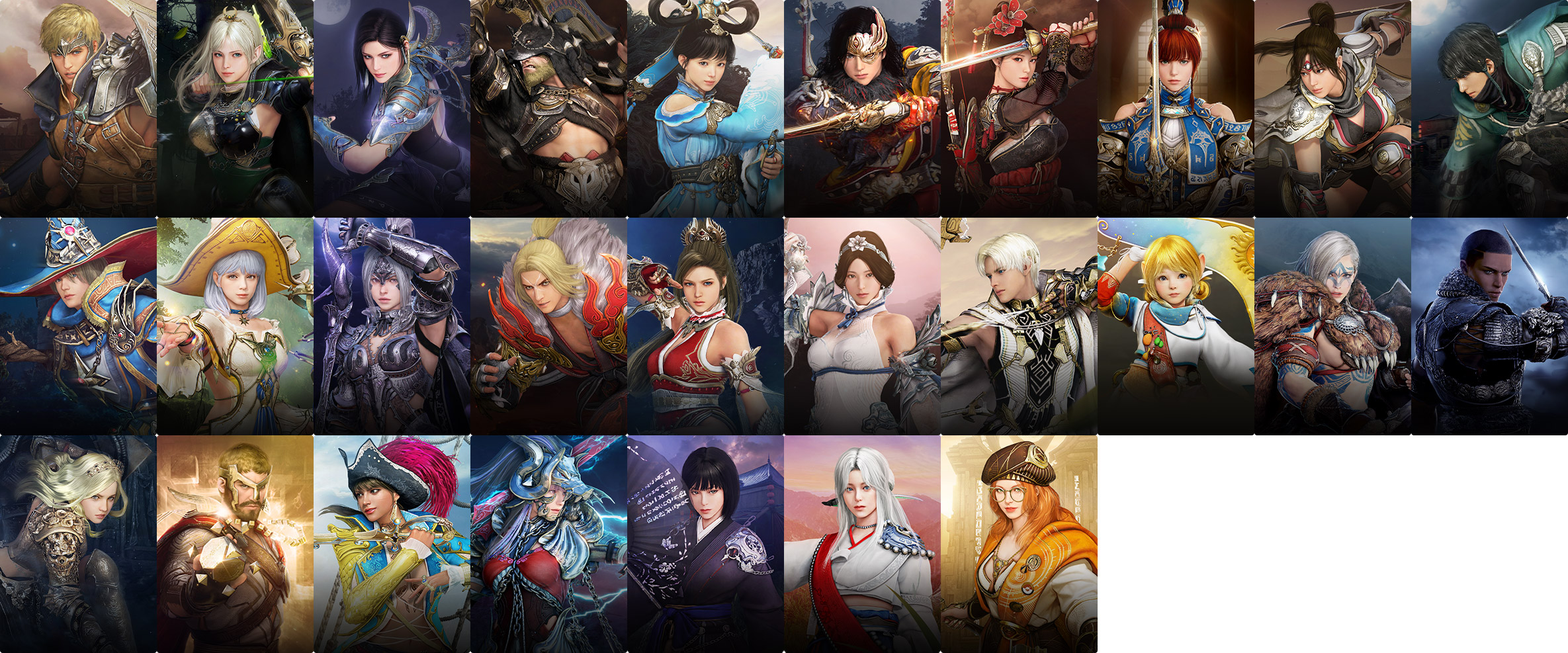
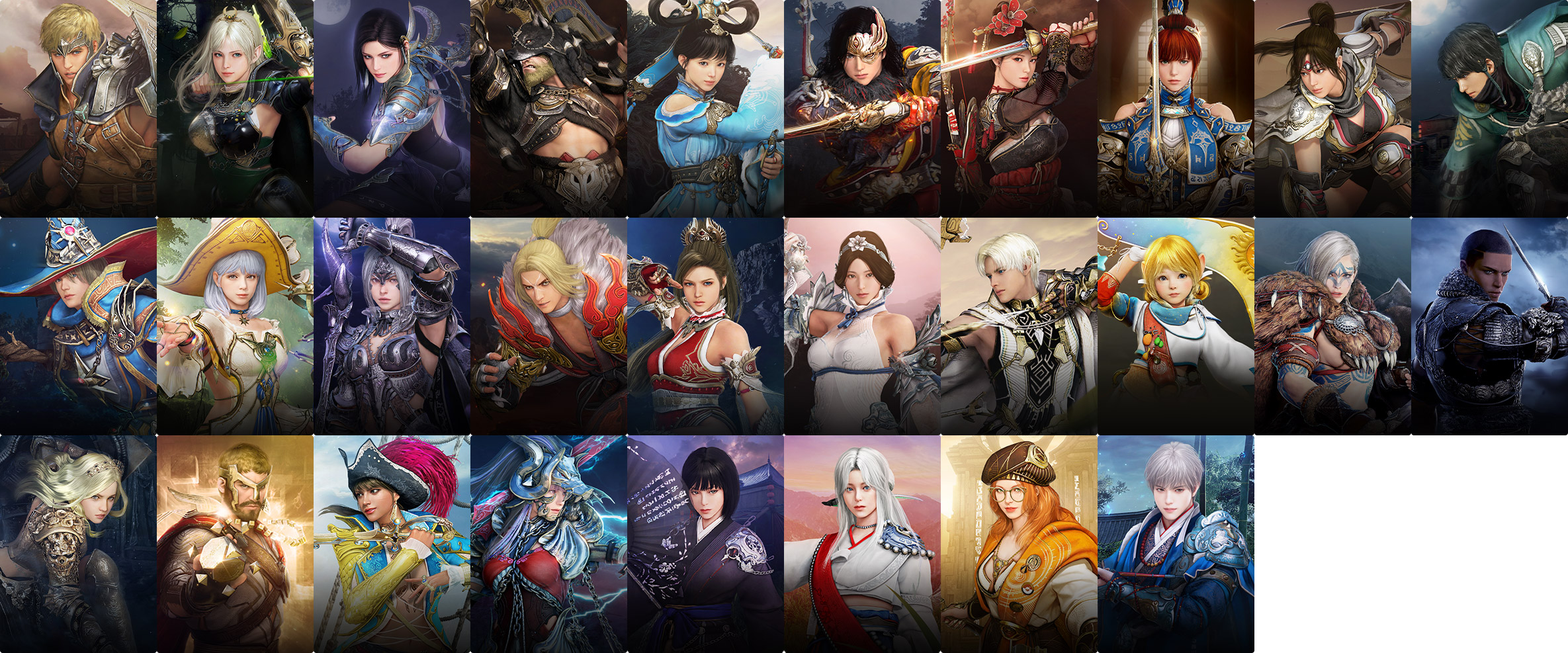
Feat update classes spr to include do-sa

Changed region(s): [[0.6869, 0.6687, 0.8118, 1.0]]

diff --git a/src/app/(landing)/rank/rank.module.scss b/src/app/(landing)/rank/rank.module.scss
@@ -180,4 +180,8 @@
     &.character-27 {
         background-position: calc((100% / 9)* 6) calc((100% / 2)* 2);
     }
+
+    &.character-28 {
+        background-position: calc((100% / 9)* 7) calc((100% / 2)* 2);
+    }
 }
